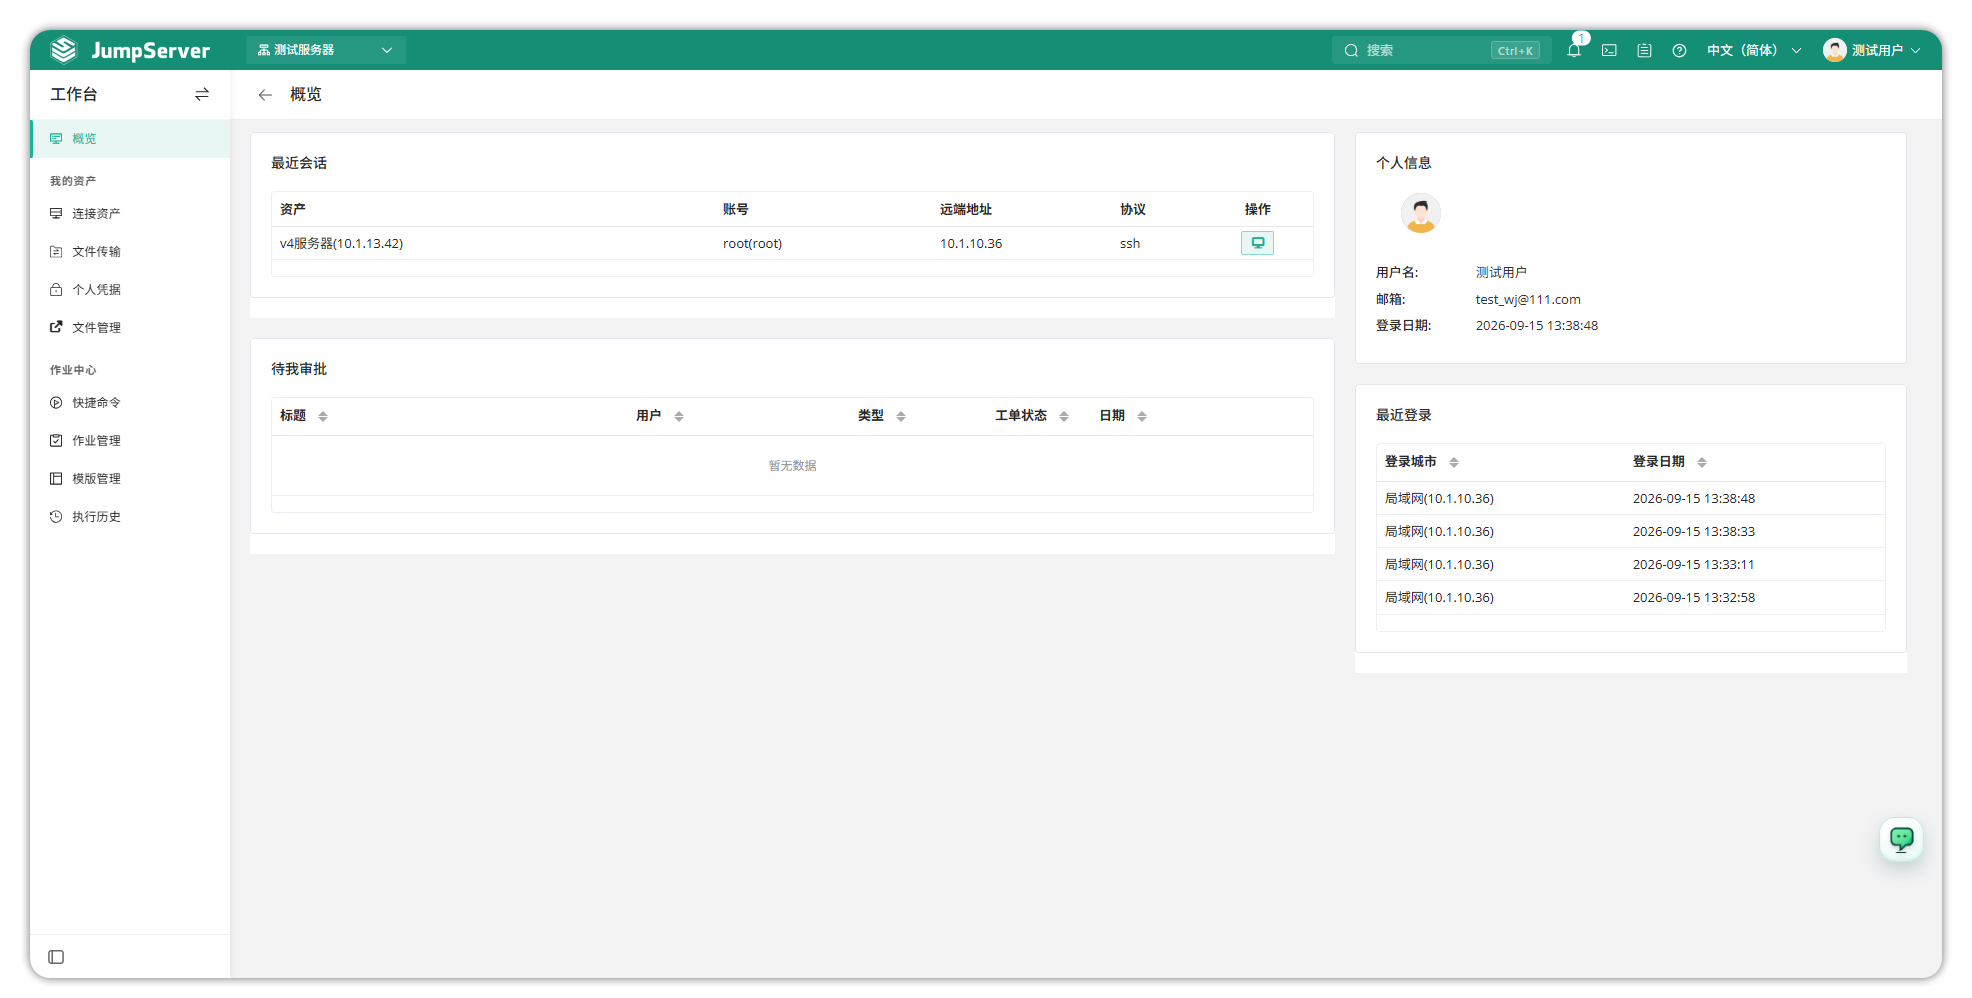
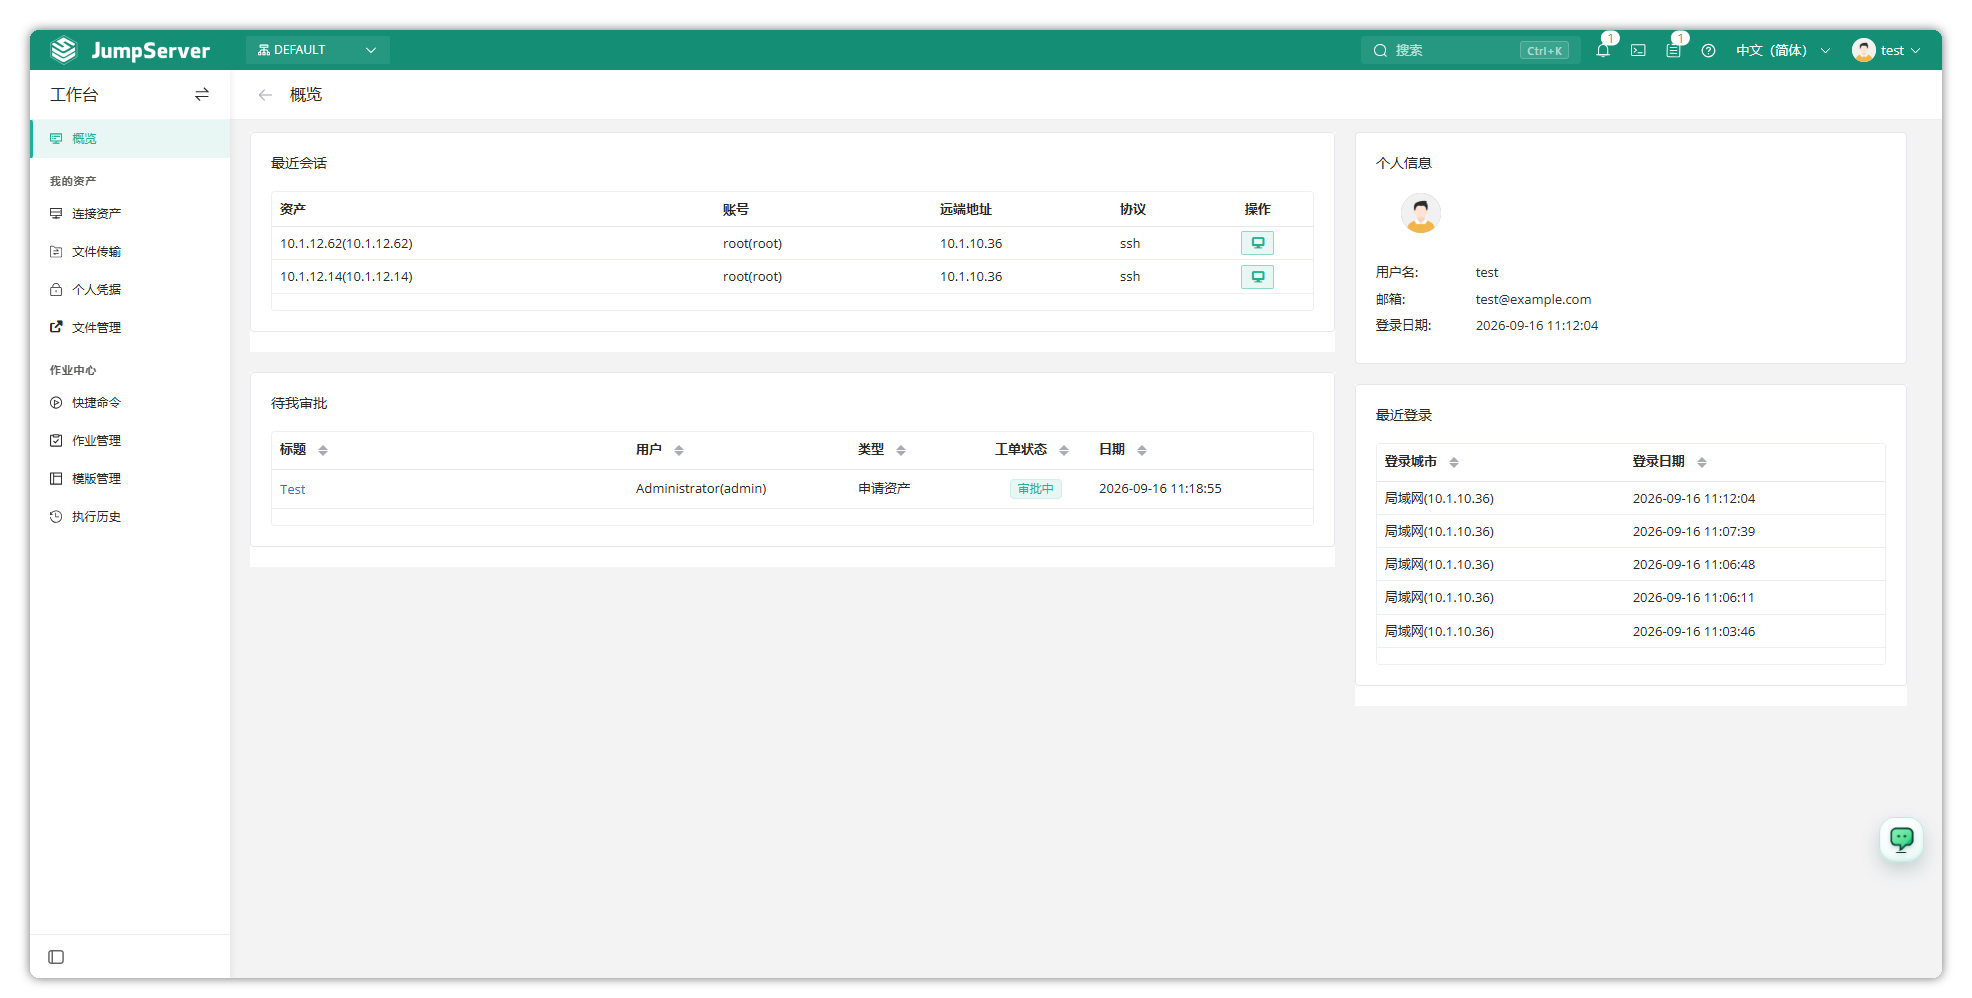
优化普通用户概览

diff --git a/jumpserver-docs/manual/user/workbench/overview.md b/jumpserver-docs/manual/user/workbench/overview.md
@@ -1,20 +1,46 @@
 ---
 title: 工作台概览页面
-description: 介绍 JumpServer 工作台概览页面。
+description: 介绍 JumpServer 工作台概览页面的四个信息区域。
 ---
+
+## 1 功能简介
+
+概览页是工作台的默认页面，集中展示当前账号的最近会话、待我审批、个人信息和最近登录四类信息，用于快速回到常用资产、查看待处理事项。
+
+路径：登录后将控制台切换到 **工作台**，选择 **概览**；普通用户默认进入工作台，无需切换。
 
 <img style={{display:"block",margin:"16px auto",maxWidth:"100%"}} src="/img/jumpserver/workbench_overview.png" alt="图 1  概览页面" />
 
 <div style={{textAlign:"center",color:"#8a8f99",fontSize:"13px",margin:"6px 0 20px"}}>图 1  概览页面</div>
 
-### 最近会话
-最近会话展示的是用户最近使用过的资产信息，在右侧的操作按钮点击可以实现跳转到[Web 终端](../web_terminal/overview.md)实现资产的快速连接
+:::note[公告]
+系统管理员在 [功能设置](../../admin/system_settings/feature_settings.md) 中开启公告后，概览页会显示公告内容。
+:::
 
-### 待我审批
-如果是管理员用户或者是被管理员在工单系统中配置在某个工单流中的用户会在这个地方看到待审批的工单信息
+## 2 最近会话
 
-### 个人信息
-展示当前用户的部分信息
+最近会话展示当前账号最近连接过的资产，按连接时间倒序排列。列字段包括资产、账号、远端地址、协议及操作。
 
-### 最近登录
-可以看到当前用户最近的登录的城市以及登陆的日期
+**资产** 为连接的资产名称与地址，**账号** 为连接该资产时使用的账号，**远端地址** 为发起连接的客户端地址，**协议** 为连接所使用的协议，例如 ssh、rdp。
+
+单击 **操作** 列的连接图标，会在新窗口打开 Web 终端，并自动带入该行的资产与账号，无需再到 **我的资产** 中查找。
+
+没有连接记录时显示 **暂无数据**。
+
+## 3 待我审批
+
+待我审批展示需要当前账号处理的工单，仅列出处理人为当前账号、状态为待处理的记录，列字段包括标题、用户、类型、工单状态及日期。该区域仅对具备工单查看权限的账号显示。
+
+单击 **标题** 可打开该工单的详情页面。
+
+没有待处理工单时显示 **暂无数据**。工单由管理员在工单流中指定处理人，当前账号未被指定为处理人时，该区域通常为空。
+
+## 4 个人信息
+
+个人信息展示当前登录账号的用户名、邮箱和登录日期，其中登录日期为当前账号最近一次登录的时间。
+
+## 5 最近登录
+
+最近登录展示当前账号最近的登录记录，列字段包括登录城市和登录日期。
+
+**登录城市** 的格式为 `城市(IP 地址)`。城市由登录 IP 解析得到，内网 IP 显示为 **局域网**，解析失败时显示 **未知**。**登录日期** 为该次登录的时间。
